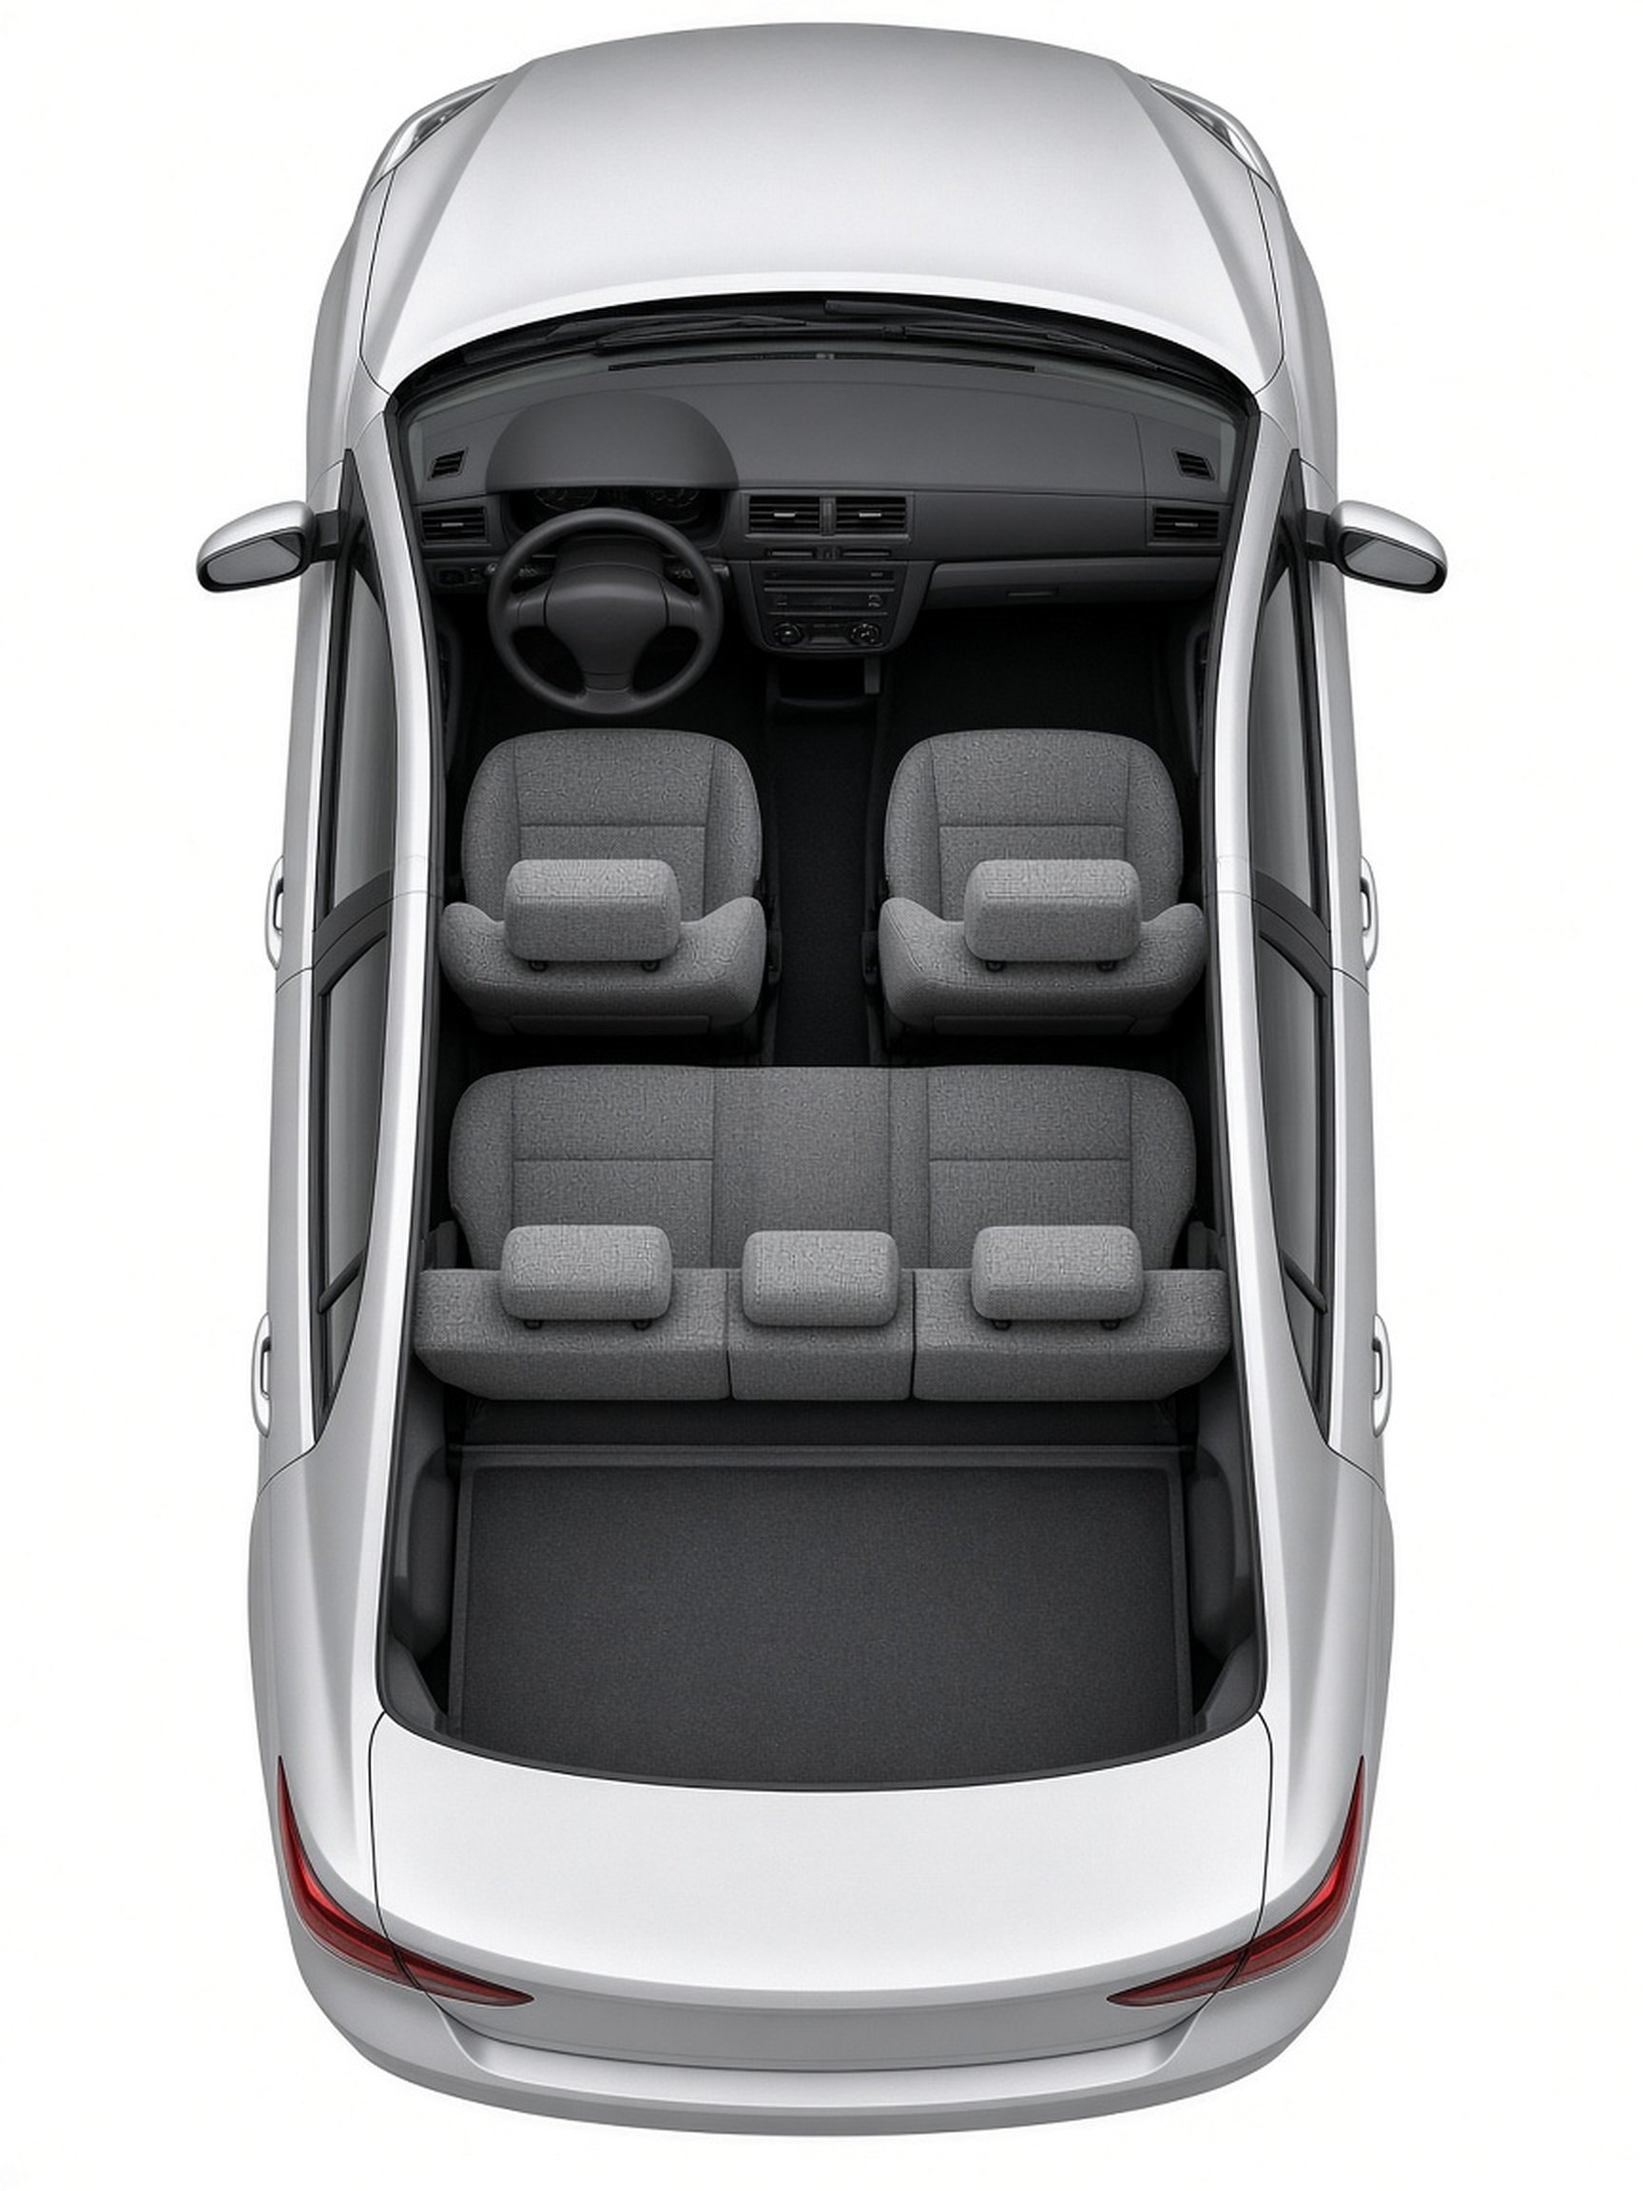
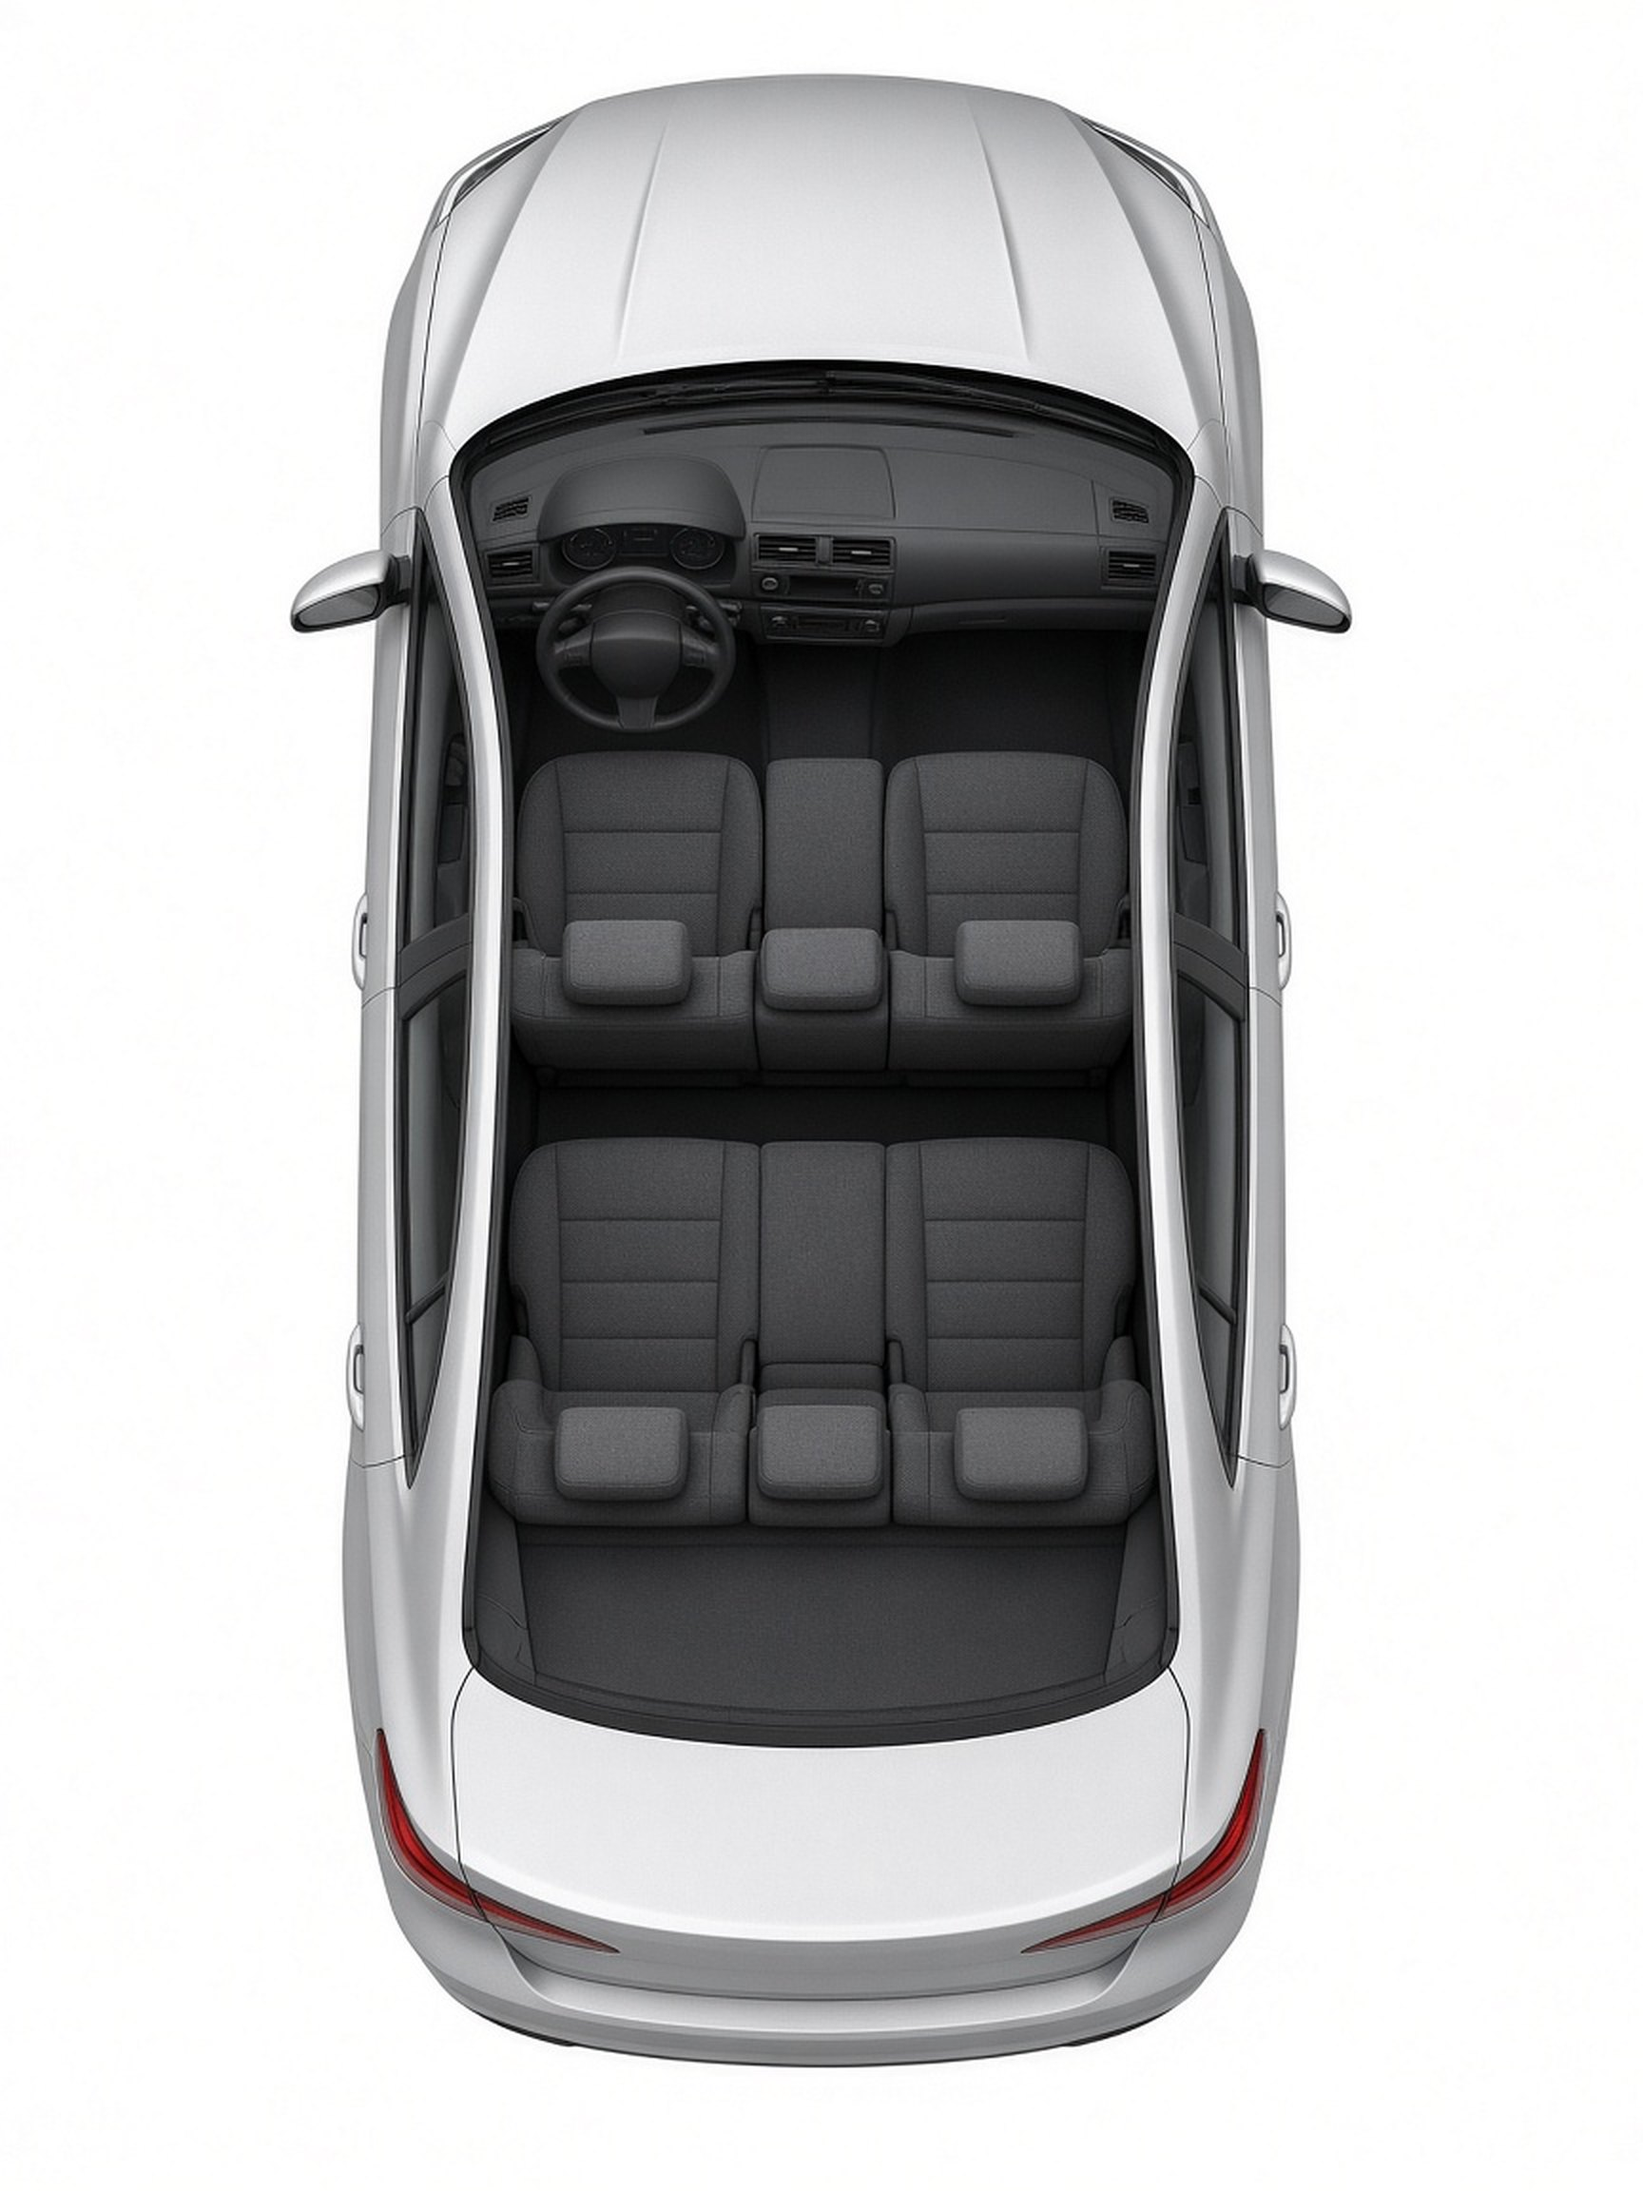
Seat the middle front marker on the center cushion.
The cabin shell is the three-across bench again. Front hotspots sit on the left, center, and right cushions, and the four rear markers sit on the rear bench.

diff --git a/shared/flutter/along_design/lib/src/components/seat_map.dart b/shared/flutter/along_design/lib/src/components/seat_map.dart
@@ -190,11 +190,9 @@ class _SchematicBody extends StatelessWidget {
   }
 }
 
-/// Photograph is 864×1152, nose up. The steering wheel is on the left.
-/// The shell crops to the cabin. Front row of the photo is two buckets
-/// (centers 0.37 and 0.62); the rear is one bench. Marker count still
-/// comes from the row list, so a three-across front row puts the middle
-/// marker on the console between those buckets.
+/// Photograph is 864×1152, nose up, steering wheel on the left.
+/// Front row is a three-cushion bench (seams near x 0.46 and 0.54).
+/// The rear is one bench. Marker count still comes from the row list.
 class _CabinShell extends StatelessWidget {
   const _CabinShell({
     required this.rows,
@@ -206,12 +204,11 @@ class _CabinShell extends StatelessWidget {
   final ValueChanged<String>? onSeatTap;
   final ValueChanged<String>? onSeatLongPress;
 
-  /// Interior window, as fractions of the 864×1152 photograph.
-  /// Top includes the wheel; bottom includes the rear cushion.
-  static const _cropL = 0.18;
-  static const _cropT = 0.14;
-  static const _cropR = 0.82;
-  static const _cropB = 0.72;
+  /// Cabin window. Tight enough that a 48dp marker fits one front cushion.
+  static const _cropL = 0.26;
+  static const _cropT = 0.18;
+  static const _cropR = 0.74;
+  static const _cropB = 0.70;
   static const _cropAspect =
       ((_cropR - _cropL) * 864) / ((_cropB - _cropT) * 1152);
 
@@ -296,24 +293,25 @@ class _CabinShell extends StatelessWidget {
 
   /// Cushion centers in full-photo fractions, left to right.
   /// Driver is sorted first, so the left front center is the wheel side.
+  /// Front seams are at 0.46 and 0.54; 0.50 is the middle cushion.
   static List<double> _photoXs(int index, int rowCount, int count) {
     final front = rowCount <= 1 || index == 0;
-    if (front && count == 2) return const [0.37, 0.62];
-    if (front && count == 3) return const [0.37, 0.50, 0.62];
-    if (!front && count == 4) return const [0.33, 0.44, 0.54, 0.65];
-    final start = front ? 0.32 : 0.30;
-    final end = front ? 0.68 : 0.70;
-    if (count <= 1) return [(start + end) / 2];
+    if (front && count == 2) return const [0.39, 0.60];
+    if (front && count == 3) return const [0.39, 0.50, 0.60];
+    if (!front && count == 4) return const [0.36, 0.45, 0.55, 0.64];
+    const start = 0.36;
+    const end = 0.64;
+    if (count <= 1) return const [(start + end) / 2];
     return [
       for (var i = 0; i < count; i++) start + (end - start) * i / (count - 1),
     ];
   }
 
   static double _photoY(int index, int rowCount) {
-    if (rowCount <= 1) return 0.385;
-    if (rowCount == 2) return index == 0 ? 0.385 : 0.548;
+    if (rowCount <= 1) return 0.395;
+    if (rowCount == 2) return index == 0 ? 0.395 : 0.575;
     final t = index / (rowCount - 1);
-    return 0.385 + (0.548 - 0.385) * t;
+    return 0.395 + (0.575 - 0.395) * t;
   }
 
   static double _mapX(double photo, double width) =>
